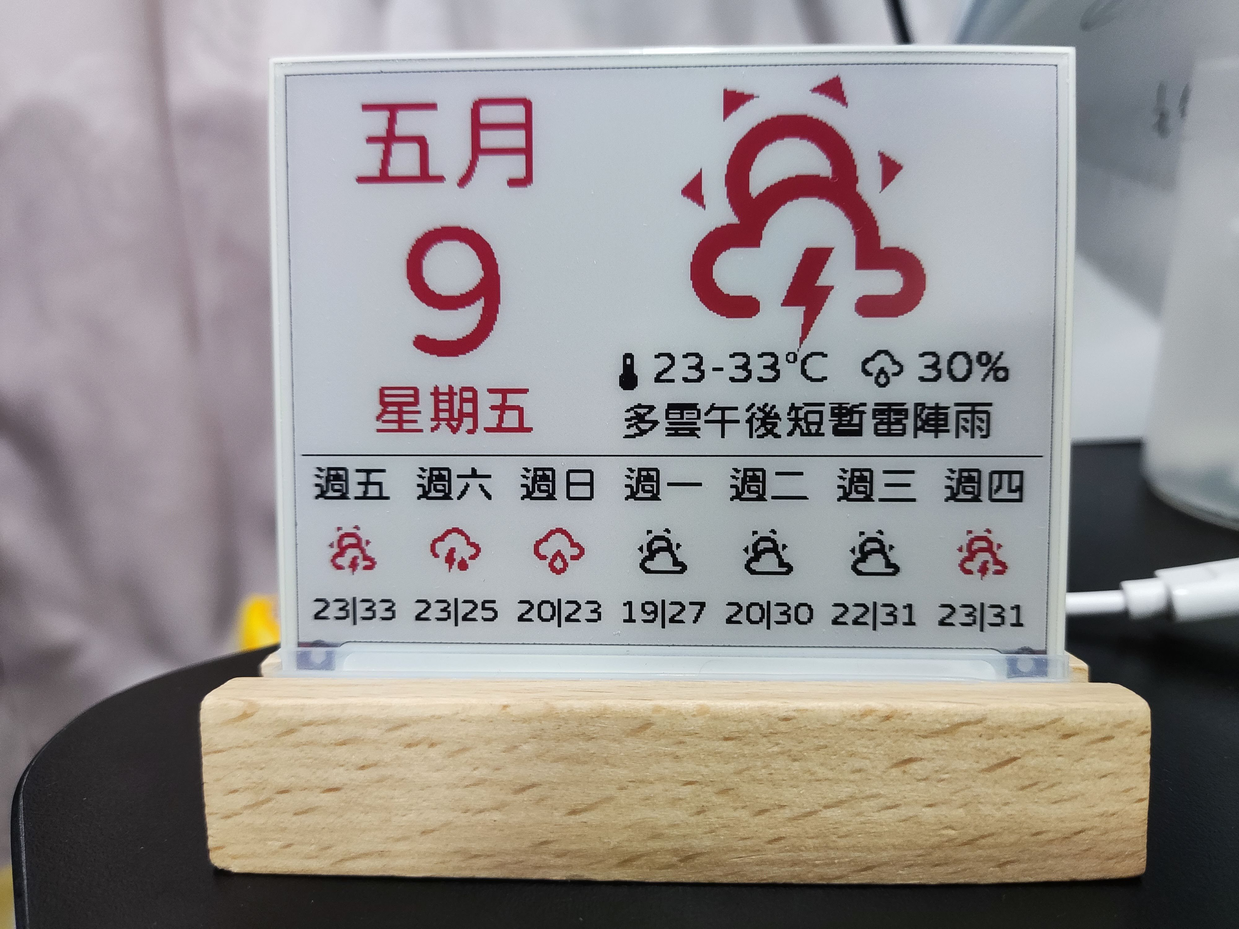
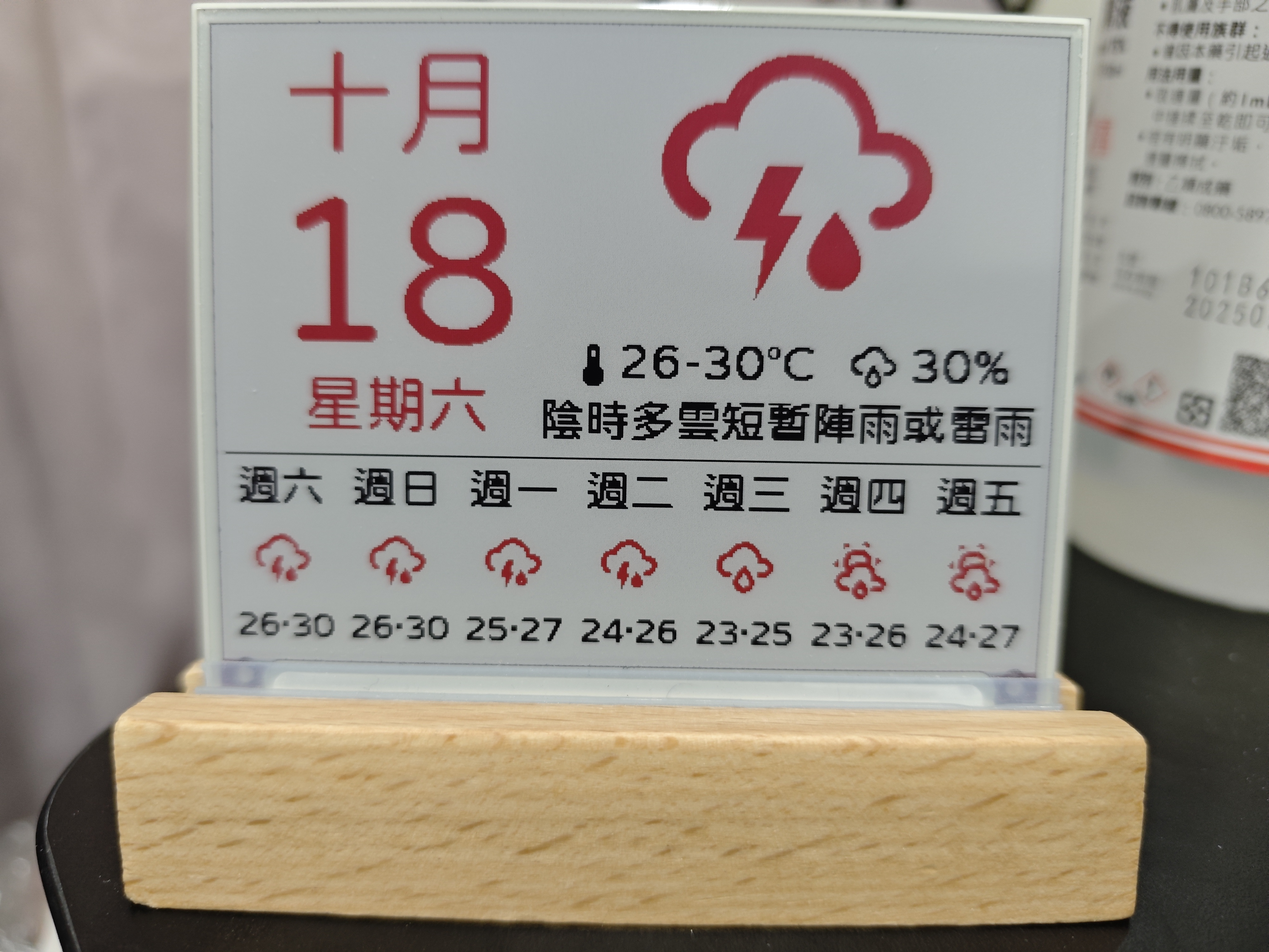
feat: add 18-hour forecast mode toggle to weather panel
Extends weather panel with selectable forecast modes: 7-day overview or 18-hour detailed forecast with rain probability. Users can switch modes via Home Assistant select entity.

diff --git a/README.md b/README.md
@@ -42,9 +42,20 @@
 ![calendar.yaml](images/calendar.jpg)
 
 ## [weather-panel.yaml](weather-panel.yaml)
-顯示今日與一週天氣資訊，數據來源為[中央氣象署 - 鄉鎮天氣預報 API](https://opendata.cwa.gov.tw/dist/opendata-swagger.html)
+顯示今日天氣預報，下方區塊顯示一週或 18 小時天氣預報
 
-![weather-panel.yaml](images/weather-panel.jpg)
+<table>
+<tr>
+<td><img src="images/weather-panel.jpg"></td>
+<td><img src="images/weather-panel-18h.jpg"></td>
+</tr>
+<tr>
+<td align="center">7 Days</td>
+<td align="center">18 Hours</td>
+</tr>
+</table>
+
+
 
 ## [digital-photo-frame.yaml](digital-photo-frame.yaml)
 > [目前的 webp 的 external component 已不能通過編譯](https://github.com/esphome/esphome/pull/8284)
